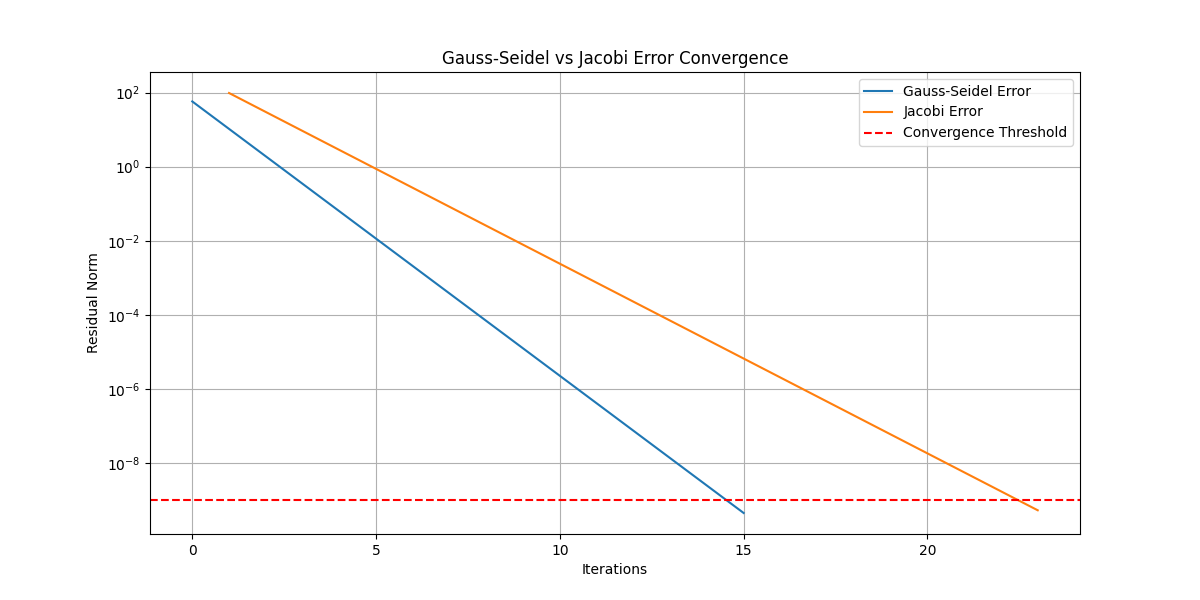
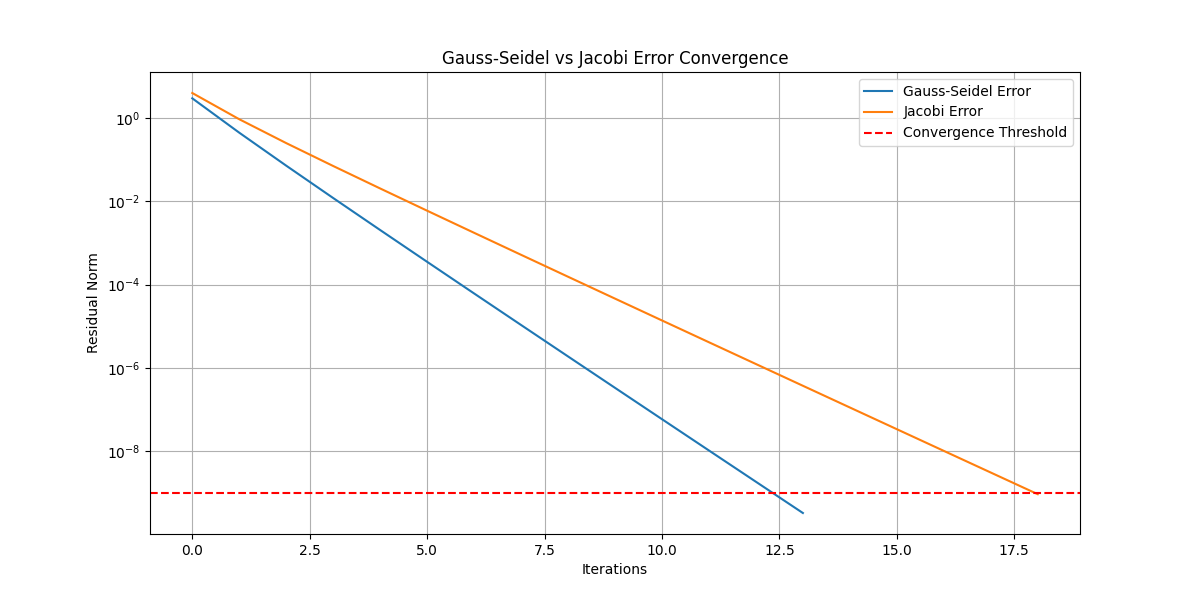
refactor - Improved LU decomposition, restored old versions of algorithms to compare them all on graphs

diff --git a/src/matrix_algorithms.py b/src/matrix_algorithms.py
@@ -1,7 +1,7 @@
 import numpy as np
 import time
 from typing import List
-from helpers import l_u_decomposition
+from helpers import l_u_decomposition,l_u_decomposition_optimized
 import math
 
 class OutputSolution:
@@ -13,11 +13,10 @@ class OutputSolution:
       self.time = time
       
   
-def solve_jacobi(
+def solve_jacobi_optimized(
     A: np.ndarray,
     b: np.ndarray,
     precision: float = 1e-9,
-    max_iter: int = 10000,
     max_error: float = 1e9,
 ) -> OutputSolution:
    # based on https://www.quantstart.com/articles/Jacobi-Method-in-Python-and-NumPy/
@@ -48,9 +47,6 @@ def solve_jacobi(
         err = np.linalg.norm(resid)
         errors.append(err)
 
-        if err < precision:
-            x = x_new
-            break
         if err > max_error:
             does_converge = False
             x = x_new
@@ -68,7 +64,45 @@ def solve_jacobi(
                           does_converge=does_converge,
                           time=elapsed_time)
 
-def solve_gauss_seidel(A: np.ndarray, b: np.ndarray, precision: float = 1e-9, max_error: float = 1e9) -> OutputSolution:
+def solve_jacobi(A: np.ndarray, b: np.ndarray, precision: float = 1e-9, max_error: float = 1e9) -> OutputSolution:
+  # algorithm source https://en.wikipedia.org/wiki/Jacobi_method
+  start_time = time.time()
+  
+  n = len(A)
+  
+  errors = [float('Inf')]
+  iterations = 0
+  does_converge = True
+  
+  x = np.zeros((n, 1), dtype=float)
+  
+  while errors[-1] > precision:
+    new_x = np.copy(x)
+    
+    # A = L + U + D, L is lower triangular, U is upper triangular, D is diagonal
+    for i in range(n):
+      sum_L_U = sum(A[i][j] * x[j][0] for j in range(n) if i != j) # K = (L + U) * x
+      new_x[i][0] = (b[i][0] - sum_L_U) / A[i][i] # (b - K) / D
+      
+    
+    current_error = np.linalg.norm(A @ new_x - b)
+    errors.append(current_error)
+    
+    if current_error > max_error:
+       does_converge = False
+       break
+     
+    x = new_x
+    iterations += 1
+    
+  elapsed_time = time.time() - start_time
+  return OutputSolution(x=x,
+                        iterations=iterations,
+                        errors=errors[1:],
+                        does_converge=does_converge,
+                        time=elapsed_time)
+
+def solve_gauss_seidel_optimized(A: np.ndarray, b: np.ndarray, precision: float = 1e-9, max_error: float = 1e9) -> OutputSolution:
   # based on https://en.wikipedia.org/wiki/Gauss%E2%80%93Seidel_method
   #
   #  x_i^(k+1) = (b_i - sum_{j<i} a_{ij} x_j^(k+1) - sum_{j>i} a_{ij} x_j^(k))
@@ -98,8 +132,8 @@ def solve_gauss_seidel(A: np.ndarray, b: np.ndarray, precision: float = 1e-9, ma
   while errors[-1] > precision:
     x_new = np.zeros_like(x, dtype=float)
     for i in range(n):
-        sum1 = A_lower[i, :i].dot(x_new[:i])
-        sum2 = A_upper[i, i+1:].dot(x[i+1:])
+        sum1 = A_lower[i, :i] @ (x_new[:i])
+        sum2 = A_upper[i, i+1:] @ (x[i+1:])
         x_new[i] = (b_vec[i] - sum1 - sum2) * D_inv[i]
     
     x = x_new
@@ -122,27 +156,103 @@ def solve_gauss_seidel(A: np.ndarray, b: np.ndarray, precision: float = 1e-9, ma
                           does_converge=does_converge,
                           time=elapsed_time)
 
-def solve_l_u(A: np.ndarray, b: np.ndarray, precision: float = 1e-9) -> OutputSolution:
+def solve_gauss_seidel(A: np.ndarray, b: np.ndarray, precision: float = 1e-9, max_error: float = 1e9) -> OutputSolution:
+  # based on https://en.wikipedia.org/wiki/Gauss%E2%80%93Seidel_method
+  start_time = time.time()
+  
+  n = len(A)
+  
+  errors = [float('Inf')]
+  iterations = 0
+  does_converge = True
+  
+  x = np.zeros((n, 1), dtype=float)
+  
+  while errors[-1] > precision:
+    
+    x_new = np.copy(x)
+    for i in range(n):
+      
+      sum1 = sum(A[i][j] * x[j][0] for j in range(i+1, n)) 
+      sum2 = sum(A[i][j] * x_new[j][0] for j in range(i))
+      
+      x_new[i][0] = (b[i][0] - sum1 - sum2) / A[i][i]
+      
+    
+    current_error = np.linalg.norm(A @ x_new - b)
+    errors.append(current_error)
+    
+    x = x_new
+    iterations += 1
+    
+    if current_error > max_error:
+       does_converge = False
+       break
+     
+
+    
+  elapsed_time = time.time() - start_time
+    
+  # errors[1:] to remove the first error which is always Inf
+  return OutputSolution(x=x,
+                        iterations=iterations,
+                        errors=errors[1:],
+                        does_converge=does_converge,
+                        time=elapsed_time)
+
+def solve_l_u_optimized(A: np.ndarray, b: np.ndarray, precision: float = 1e-9) -> OutputSolution:
    # idea of an algorithm https://www.cl.cam.ac.uk/teaching/1314/NumMethods/supporting/mcmaster-kiruba-ludecomp.pdf
    start_time = time.time()
    
-   l,u = l_u_decomposition(A)
+   L,U = l_u_decomposition_optimized(A)
    
-   d = np.zeros((len(A), 1), dtype=float)
-   x = np.zeros((len(A), 1), dtype=float)
-   
-   for i in range(len(A)):
-     d[i][0] = b[i][0] - sum(l[i][j] * d[j][0] for j in range(i))
+   n = A.shape[0]
+   b_vec = b.ravel() # shape (n,)
+   x = np.zeros_like(b_vec, dtype=float) # shape (n,)
+   d = np.zeros_like(b_vec, dtype=float) # shape (n,)
+
+   for i in range(n):
+    d[i] = b_vec[i] - L[i, :i] @ d[:i] 
      
-   for i in range(len(A)-1, -1, -1):
-      x[i][0] = (d[i][0] - sum(u[i][j] * x[j][0] for j in range(i+1, len(A)))) / u[i][i]
+   for i in range(n-1, -1, -1):
+      x[i] = (d[i] - (U[i, i+1:] @ x[i+1:])) / U[i][i]
    
-   norm = np.linalg.norm(np.dot(A, x) - b)
+   norm = np.linalg.norm((A @ x) - b_vec)
    
    elapsed_time = time.time() - start_time
    
    does_converge = norm < precision
    
-   return OutputSolution(x, 0,[norm],does_converge, elapsed_time)
+   return OutputSolution(x=x.reshape(-1, 1),  # dopasowujemy do poprzedniego interfejsu
+                          iterations=0,
+                          errors=[norm],
+                          does_converge=does_converge,
+                          time=elapsed_time)
  
- 
+def solve_l_u(A: np.ndarray, b: np.ndarray, precision: float = 1e-9) -> OutputSolution:
+   # based on https://www.cl.cam.ac.uk/teaching/1314/NumMethods/supporting/mcmaster-kiruba-ludecomp.pdf
+   start_time = time.time()
+   
+   l,u = l_u_decomposition(A)
+   
+   n = len(A)
+   d = np.zeros((n, 1), dtype=float)
+   x = np.zeros((n, 1), dtype=float)
+   
+   for i in range(n):
+     d[i][0] = b[i][0] - sum(l[i][j] * d[j][0] for j in range(i))
+     
+   for i in range(n-1, -1, -1):
+      x[i][0] = (d[i][0] - sum(u[i][j] * x[j][0] for j in range(i+1, n))) / u[i][i]
+   
+   norm = np.linalg.norm(A @ x - b)
+   
+   elapsed_time = time.time() - start_time
+   
+   does_converge = norm < precision
+   
+   return OutputSolution(x=x,
+                          iterations=0,
+                          errors=[norm],
+                          does_converge=does_converge,
+                          time=elapsed_time)

diff --git a/src/helpers.py b/src/helpers.py
@@ -91,3 +91,25 @@ def l_u_decomposition(A: np.ndarray) -> tuple[np.ndarray, np.ndarray]:
         L[k][i] = (A[k][i] - sum(L[k][j] * U[j][i] for j in range(i))) / U[i][i]
         
   return L, U
+
+def l_u_decomposition_optimized(A: np.ndarray) -> tuple[np.ndarray, np.ndarray]:
+  # algorithm https://www.geeksforgeeks.org/doolittle-algorithm-lu-decomposition/
+  n = len(A)
+
+  U = np.zeros((n, n), dtype=float)
+  L = np.eye(n, dtype=float) # insert ones on diagonal by default
+
+  for i in range(n):
+    # creating upper triangular
+    U[i, i:] = A[i, i:] - L[i, :i].dot(U[:i, i:])
+      
+    # creating lower triangular
+    if i + 1 < n:
+       L[i+1:, i] = (A[i+1:, i] - L[i+1:, :i] @ U[:i, i]) / U[i, i]
+    # for k in range(i,n):
+    #   if i == k:
+    #     L[i][i] = 1
+    #   else:
+    #     L[k][i] = (A[k][i] - sum(L[k][j] * U[j][i] for j in range(i))) / U[i][i]
+        
+  return L, U
